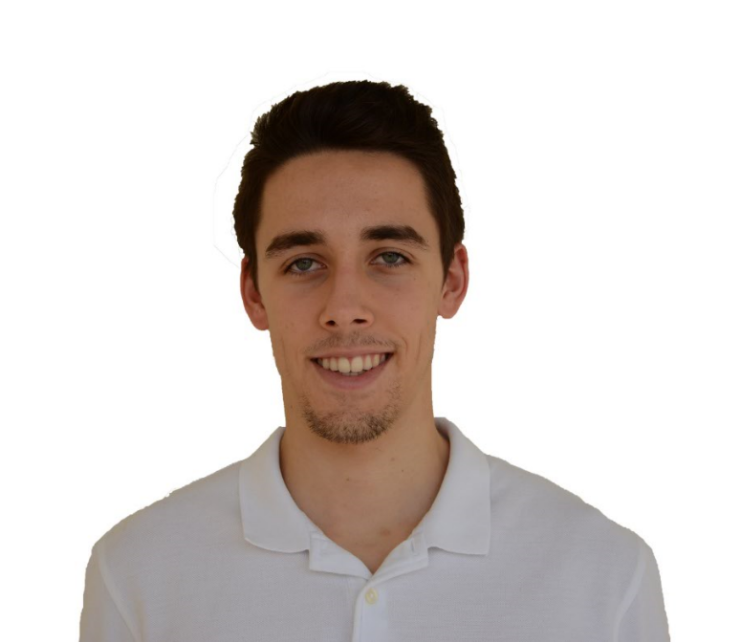
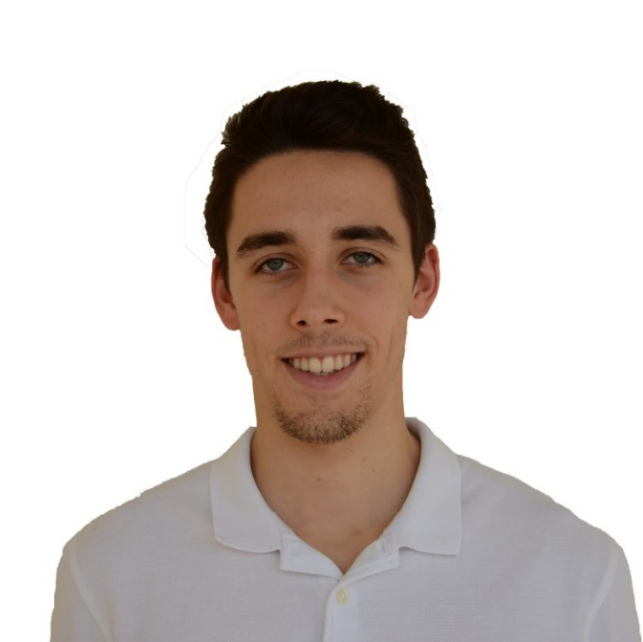
Add adria's photo + modify pablo's photo

diff --git a/index.html b/index.html
@@ -150,7 +150,7 @@
 
     <div class="section-title">
       <h2>Team</h2>
-      <p>Magnam dolores commodi suscipit. Necessitatibus eius consequatur ex aliquid fuga eum quidem. Sit sint consectetur velit. Quisquam quos quisquam cupiditate. Et nemo qui impedit suscipit alias ea.</p>
+      <p>This is the team that built the project. We are students from CITM-UPC (Polytechnic university of Catalonia).</p>
     </div>
 
     <div id="myBtnContainer">
@@ -210,7 +210,7 @@
       <div class="column-four filterDiv design">
         <div class="our-team">
             <div class="pic">
-                <img src="assets/img/team/anonymous.jpg">
+                <img src="assets/img/team/adria_serrano.png">
                 <ul class="social">
                     <li><a href="https://www.linkedin.com/in/adri%C3%A0-serrano-l%C3%B3pez-7196a91a3/" class="fa fa-linkedin" target="_blank"></a></li>
                     <li><a href="https://github.com/adriaserrano97" class="fa fa-github" target="_blank"></a></li>
